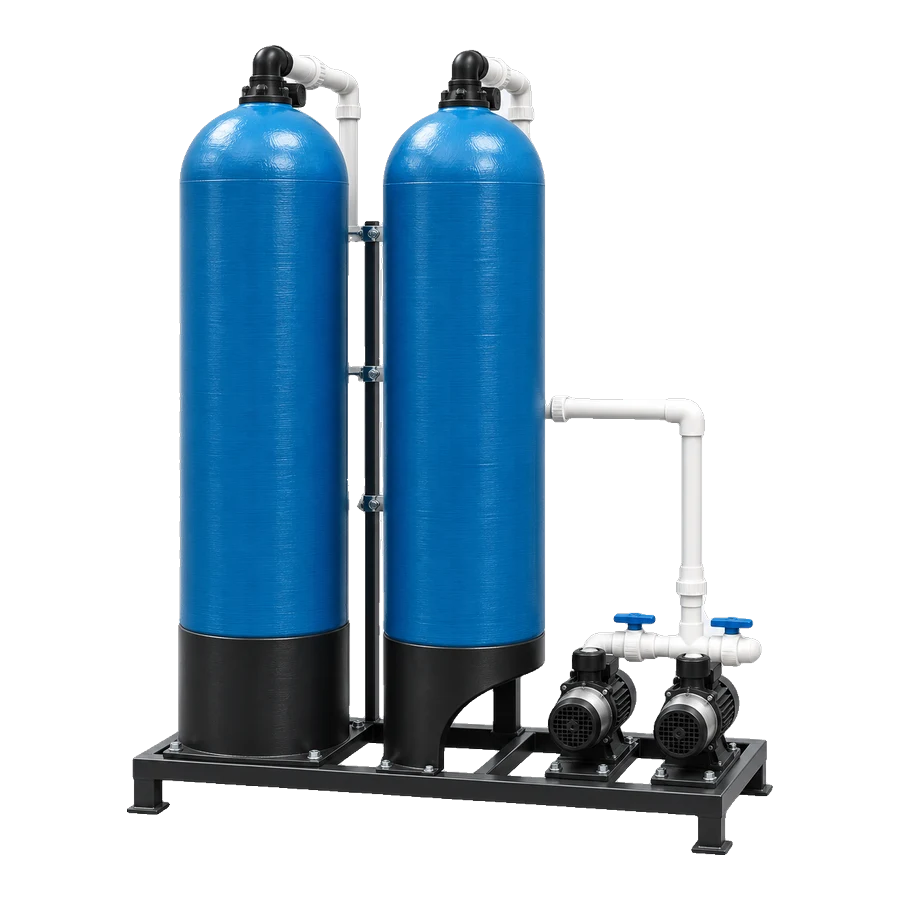
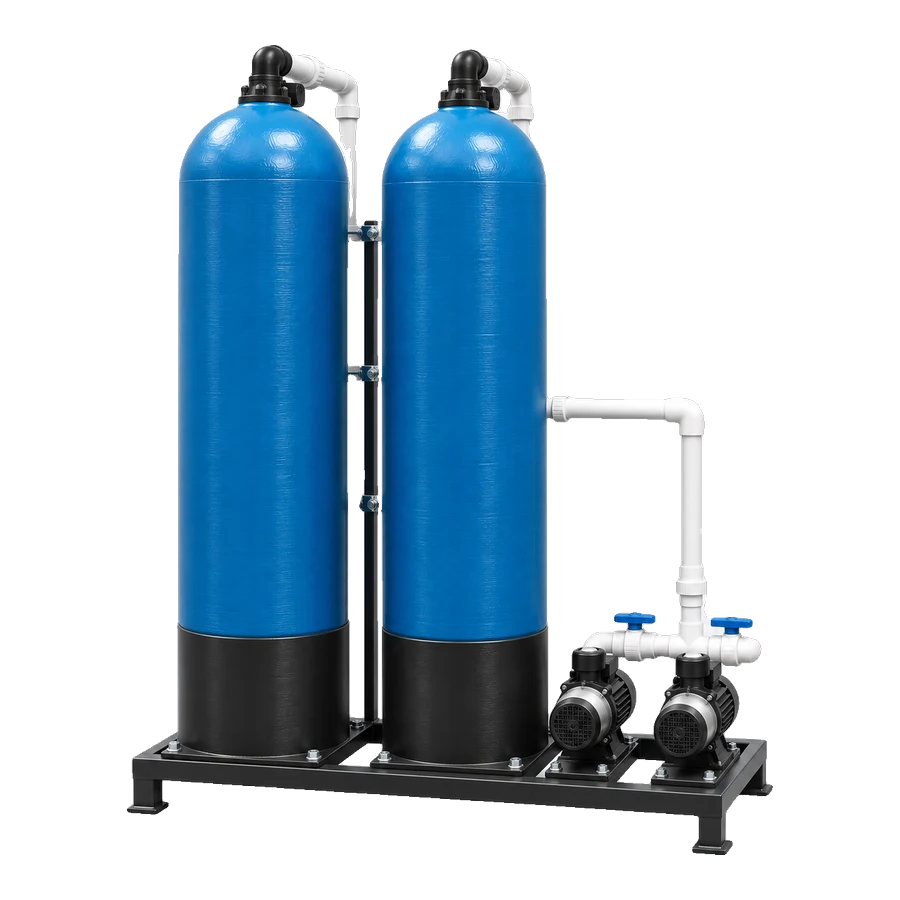
Portfolio ring: STP render with both vessel bases full

diff --git a/dist/index.html b/dist/index.html
@@ -155,7 +155,7 @@
         </div>
         <div class="port__stage" tabindex="0" role="group" aria-label="Product portfolio: drag or use the arrow keys to turn">
           <div class="port__floor"></div>
-          <div class="port__ring" data-ring><figure class="pitem" data-port-item><img src="assets/portfolio/scrubber.webp?v=4" alt="Scrubbing system (3D render based on a Plasto-Fab job)" width="900" height="900" loading="lazy" decoding="async" draggable="false"></figure><figure class="pitem" data-port-item><img src="assets/portfolio/frp-tanks.webp?v=4" alt="FRP storage tanks (3D render based on a Plasto-Fab job)" width="900" height="900" loading="lazy" decoding="async" draggable="false"></figure><figure class="pitem" data-port-item><img src="assets/portfolio/thermo-tank.webp?v=4" alt="Thermoplastic storage tank (3D render based on a Plasto-Fab job)" width="900" height="900" loading="lazy" decoding="async" draggable="false"></figure><figure class="pitem" data-port-item><img src="assets/portfolio/separation-tank.webp?v=4" alt="PP separation tank (3D render based on a Plasto-Fab job)" width="900" height="900" loading="lazy" decoding="async" draggable="false"></figure><figure class="pitem" data-port-item><img src="assets/portfolio/reaction-vessel.webp?v=4" alt="Reaction vessel (3D render based on a Plasto-Fab job)" width="900" height="900" loading="lazy" decoding="async" draggable="false"></figure><figure class="pitem" data-port-item><img src="assets/portfolio/vacuum-receiver.webp?v=4" alt="Vacuum receiver (3D render based on a Plasto-Fab job)" width="900" height="900" loading="lazy" decoding="async" draggable="false"></figure><figure class="pitem" data-port-item><img src="assets/portfolio/blower.webp?v=4" alt="Centrifugal blower (3D render based on a Plasto-Fab job)" width="900" height="900" loading="lazy" decoding="async" draggable="false"></figure><figure class="pitem" data-port-item><img src="assets/portfolio/stp.webp?v=4" alt="Sewage treatment plant filters (3D render based on a Plasto-Fab job)" width="900" height="900" loading="lazy" decoding="async" draggable="false"></figure></div>
+          <div class="port__ring" data-ring><figure class="pitem" data-port-item><img src="assets/portfolio/scrubber.webp?v=4" alt="Scrubbing system (3D render based on a Plasto-Fab job)" width="900" height="900" loading="lazy" decoding="async" draggable="false"></figure><figure class="pitem" data-port-item><img src="assets/portfolio/frp-tanks.webp?v=4" alt="FRP storage tanks (3D render based on a Plasto-Fab job)" width="900" height="900" loading="lazy" decoding="async" draggable="false"></figure><figure class="pitem" data-port-item><img src="assets/portfolio/thermo-tank.webp?v=4" alt="Thermoplastic storage tank (3D render based on a Plasto-Fab job)" width="900" height="900" loading="lazy" decoding="async" draggable="false"></figure><figure class="pitem" data-port-item><img src="assets/portfolio/separation-tank.webp?v=4" alt="PP separation tank (3D render based on a Plasto-Fab job)" width="900" height="900" loading="lazy" decoding="async" draggable="false"></figure><figure class="pitem" data-port-item><img src="assets/portfolio/reaction-vessel.webp?v=4" alt="Reaction vessel (3D render based on a Plasto-Fab job)" width="900" height="900" loading="lazy" decoding="async" draggable="false"></figure><figure class="pitem" data-port-item><img src="assets/portfolio/vacuum-receiver.webp?v=4" alt="Vacuum receiver (3D render based on a Plasto-Fab job)" width="900" height="900" loading="lazy" decoding="async" draggable="false"></figure><figure class="pitem" data-port-item><img src="assets/portfolio/blower.webp?v=4" alt="Centrifugal blower (3D render based on a Plasto-Fab job)" width="900" height="900" loading="lazy" decoding="async" draggable="false"></figure><figure class="pitem" data-port-item><img src="assets/portfolio/stp.webp?v=5" alt="Sewage treatment plant filters (3D render based on a Plasto-Fab job)" width="900" height="900" loading="lazy" decoding="async" draggable="false"></figure></div>
         </div>
       </div>
     </div>

diff --git a/index.html b/index.html
@@ -155,7 +155,7 @@
         </div>
         <div class="port__stage" tabindex="0" role="group" aria-label="Product portfolio: drag or use the arrow keys to turn">
           <div class="port__floor"></div>
-          <div class="port__ring" data-ring><figure class="pitem" data-port-item><img src="assets/portfolio/scrubber.webp?v=4" alt="Scrubbing system (3D render based on a Plasto-Fab job)" width="900" height="900" loading="lazy" decoding="async" draggable="false"></figure><figure class="pitem" data-port-item><img src="assets/portfolio/frp-tanks.webp?v=4" alt="FRP storage tanks (3D render based on a Plasto-Fab job)" width="900" height="900" loading="lazy" decoding="async" draggable="false"></figure><figure class="pitem" data-port-item><img src="assets/portfolio/thermo-tank.webp?v=4" alt="Thermoplastic storage tank (3D render based on a Plasto-Fab job)" width="900" height="900" loading="lazy" decoding="async" draggable="false"></figure><figure class="pitem" data-port-item><img src="assets/portfolio/separation-tank.webp?v=4" alt="PP separation tank (3D render based on a Plasto-Fab job)" width="900" height="900" loading="lazy" decoding="async" draggable="false"></figure><figure class="pitem" data-port-item><img src="assets/portfolio/reaction-vessel.webp?v=4" alt="Reaction vessel (3D render based on a Plasto-Fab job)" width="900" height="900" loading="lazy" decoding="async" draggable="false"></figure><figure class="pitem" data-port-item><img src="assets/portfolio/vacuum-receiver.webp?v=4" alt="Vacuum receiver (3D render based on a Plasto-Fab job)" width="900" height="900" loading="lazy" decoding="async" draggable="false"></figure><figure class="pitem" data-port-item><img src="assets/portfolio/blower.webp?v=4" alt="Centrifugal blower (3D render based on a Plasto-Fab job)" width="900" height="900" loading="lazy" decoding="async" draggable="false"></figure><figure class="pitem" data-port-item><img src="assets/portfolio/stp.webp?v=4" alt="Sewage treatment plant filters (3D render based on a Plasto-Fab job)" width="900" height="900" loading="lazy" decoding="async" draggable="false"></figure></div>
+          <div class="port__ring" data-ring><figure class="pitem" data-port-item><img src="assets/portfolio/scrubber.webp?v=4" alt="Scrubbing system (3D render based on a Plasto-Fab job)" width="900" height="900" loading="lazy" decoding="async" draggable="false"></figure><figure class="pitem" data-port-item><img src="assets/portfolio/frp-tanks.webp?v=4" alt="FRP storage tanks (3D render based on a Plasto-Fab job)" width="900" height="900" loading="lazy" decoding="async" draggable="false"></figure><figure class="pitem" data-port-item><img src="assets/portfolio/thermo-tank.webp?v=4" alt="Thermoplastic storage tank (3D render based on a Plasto-Fab job)" width="900" height="900" loading="lazy" decoding="async" draggable="false"></figure><figure class="pitem" data-port-item><img src="assets/portfolio/separation-tank.webp?v=4" alt="PP separation tank (3D render based on a Plasto-Fab job)" width="900" height="900" loading="lazy" decoding="async" draggable="false"></figure><figure class="pitem" data-port-item><img src="assets/portfolio/reaction-vessel.webp?v=4" alt="Reaction vessel (3D render based on a Plasto-Fab job)" width="900" height="900" loading="lazy" decoding="async" draggable="false"></figure><figure class="pitem" data-port-item><img src="assets/portfolio/vacuum-receiver.webp?v=4" alt="Vacuum receiver (3D render based on a Plasto-Fab job)" width="900" height="900" loading="lazy" decoding="async" draggable="false"></figure><figure class="pitem" data-port-item><img src="assets/portfolio/blower.webp?v=4" alt="Centrifugal blower (3D render based on a Plasto-Fab job)" width="900" height="900" loading="lazy" decoding="async" draggable="false"></figure><figure class="pitem" data-port-item><img src="assets/portfolio/stp.webp?v=5" alt="Sewage treatment plant filters (3D render based on a Plasto-Fab job)" width="900" height="900" loading="lazy" decoding="async" draggable="false"></figure></div>
         </div>
       </div>
     </div>
